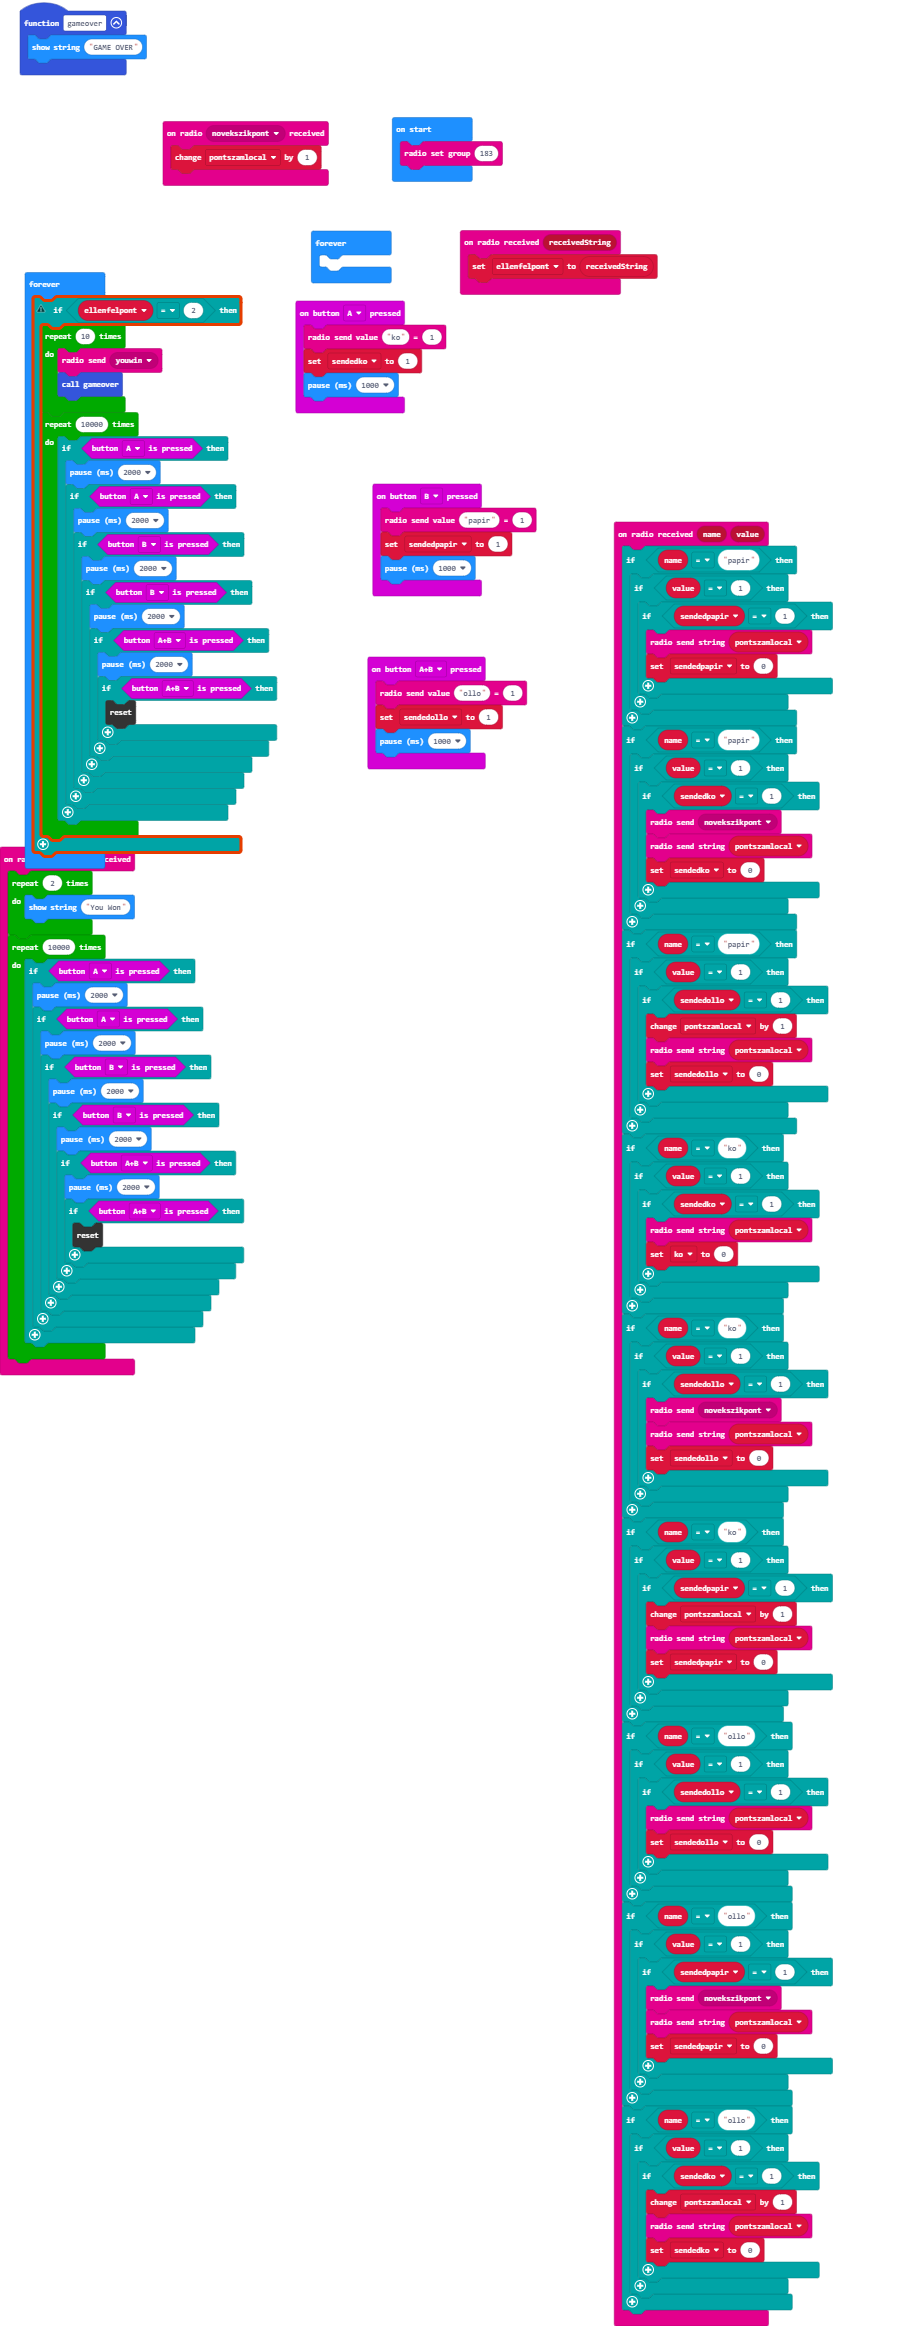
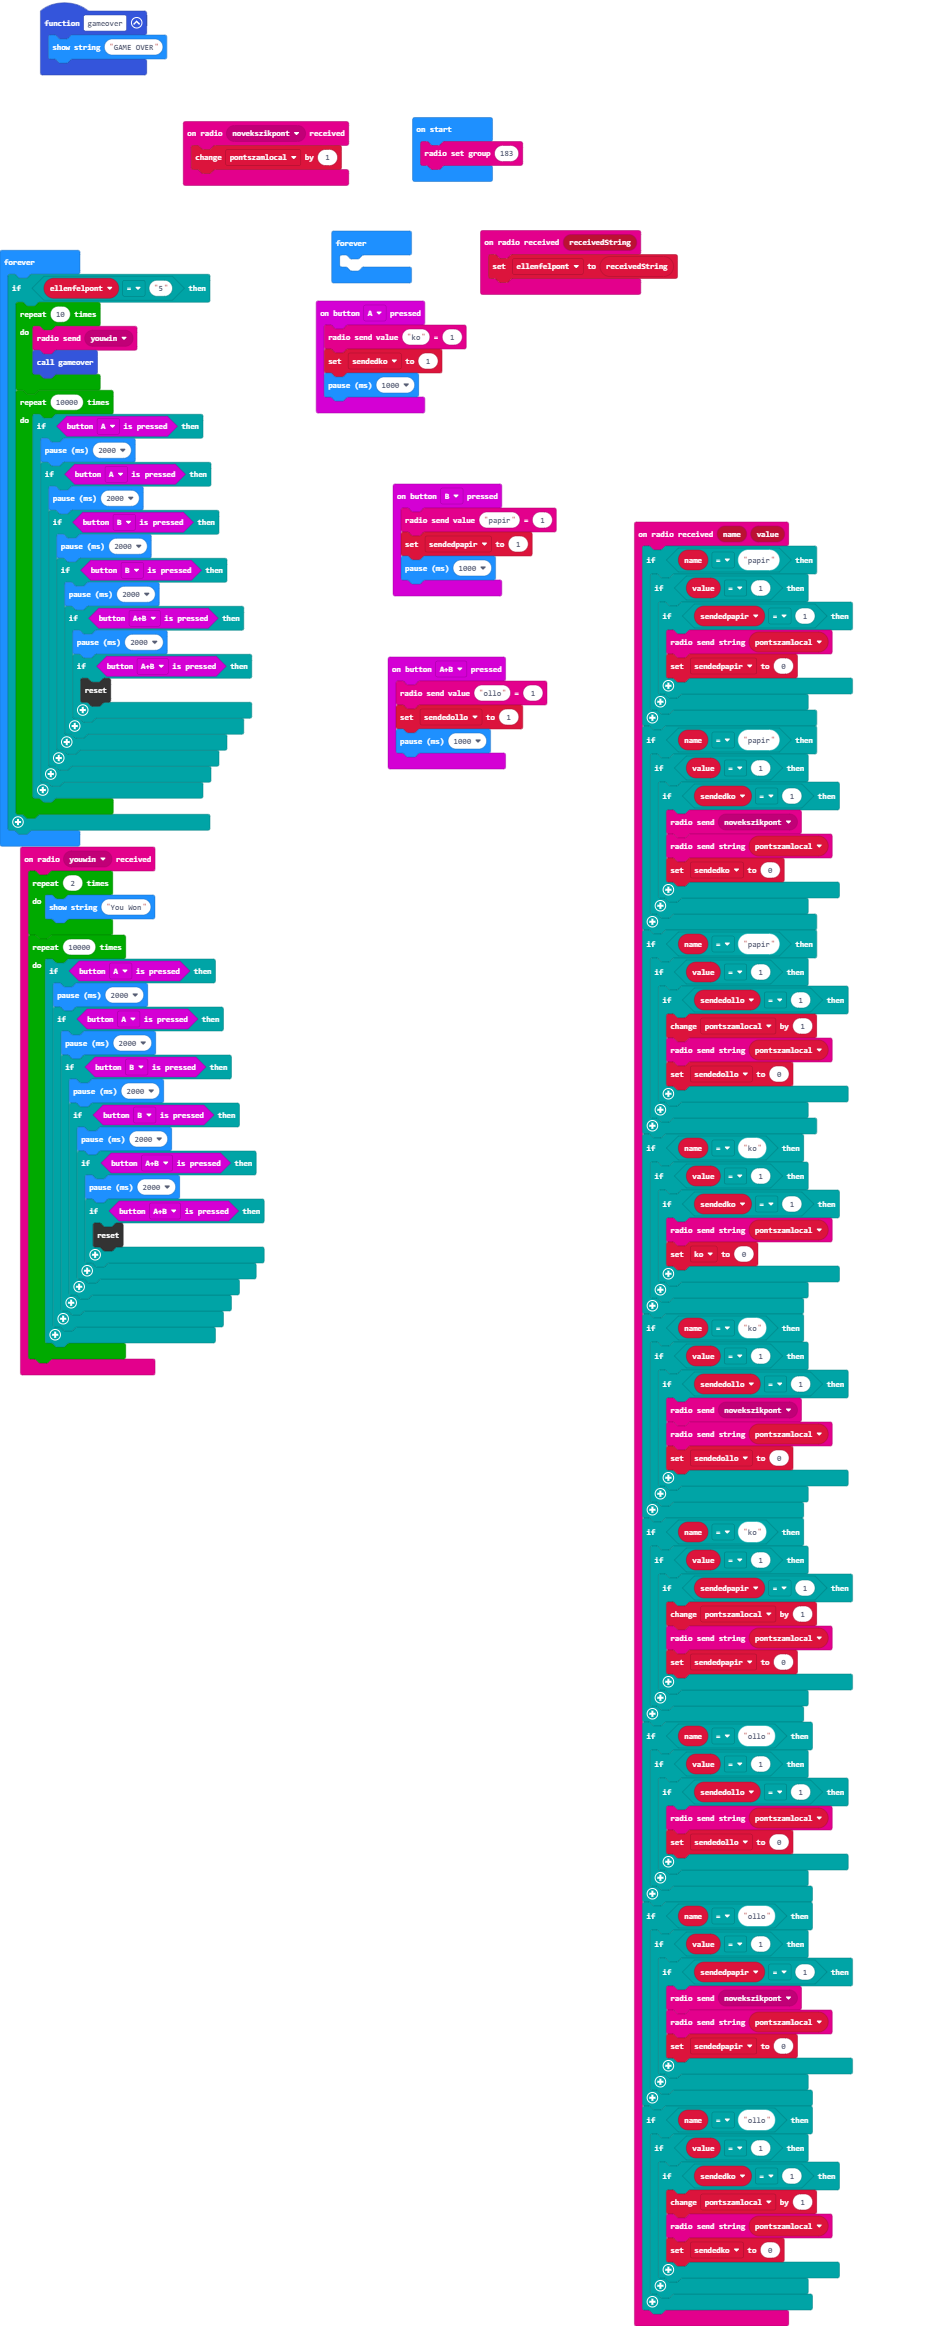
Finally fixed

diff --git a/main.ts b/main.ts
@@ -143,7 +143,7 @@ basic.forever(function () {
 	
 })
 basic.forever(function () {
-    if (ellenfelpont == 2) {
+    if (ellenfelpont == "5") {
         for (let index = 0; index < 10; index++) {
             radio.sendMessage(RadioMessage.youwin)
             gameover()
